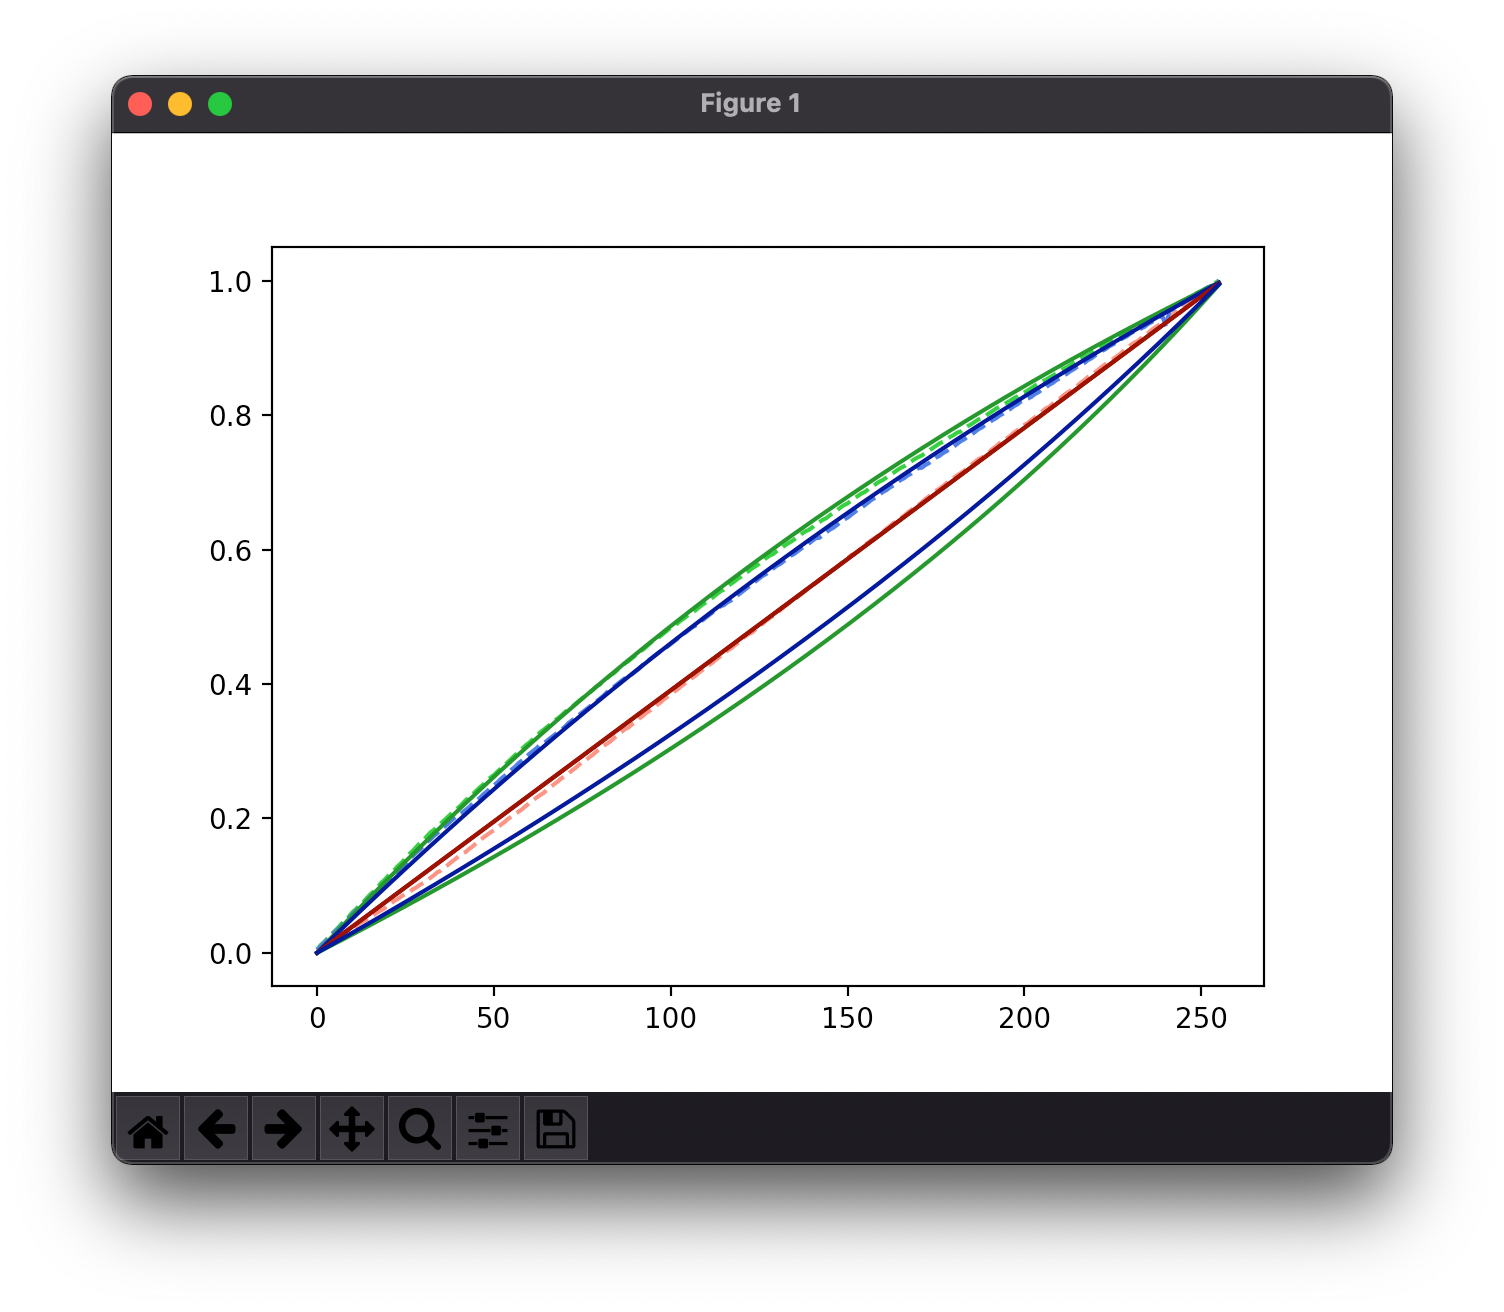
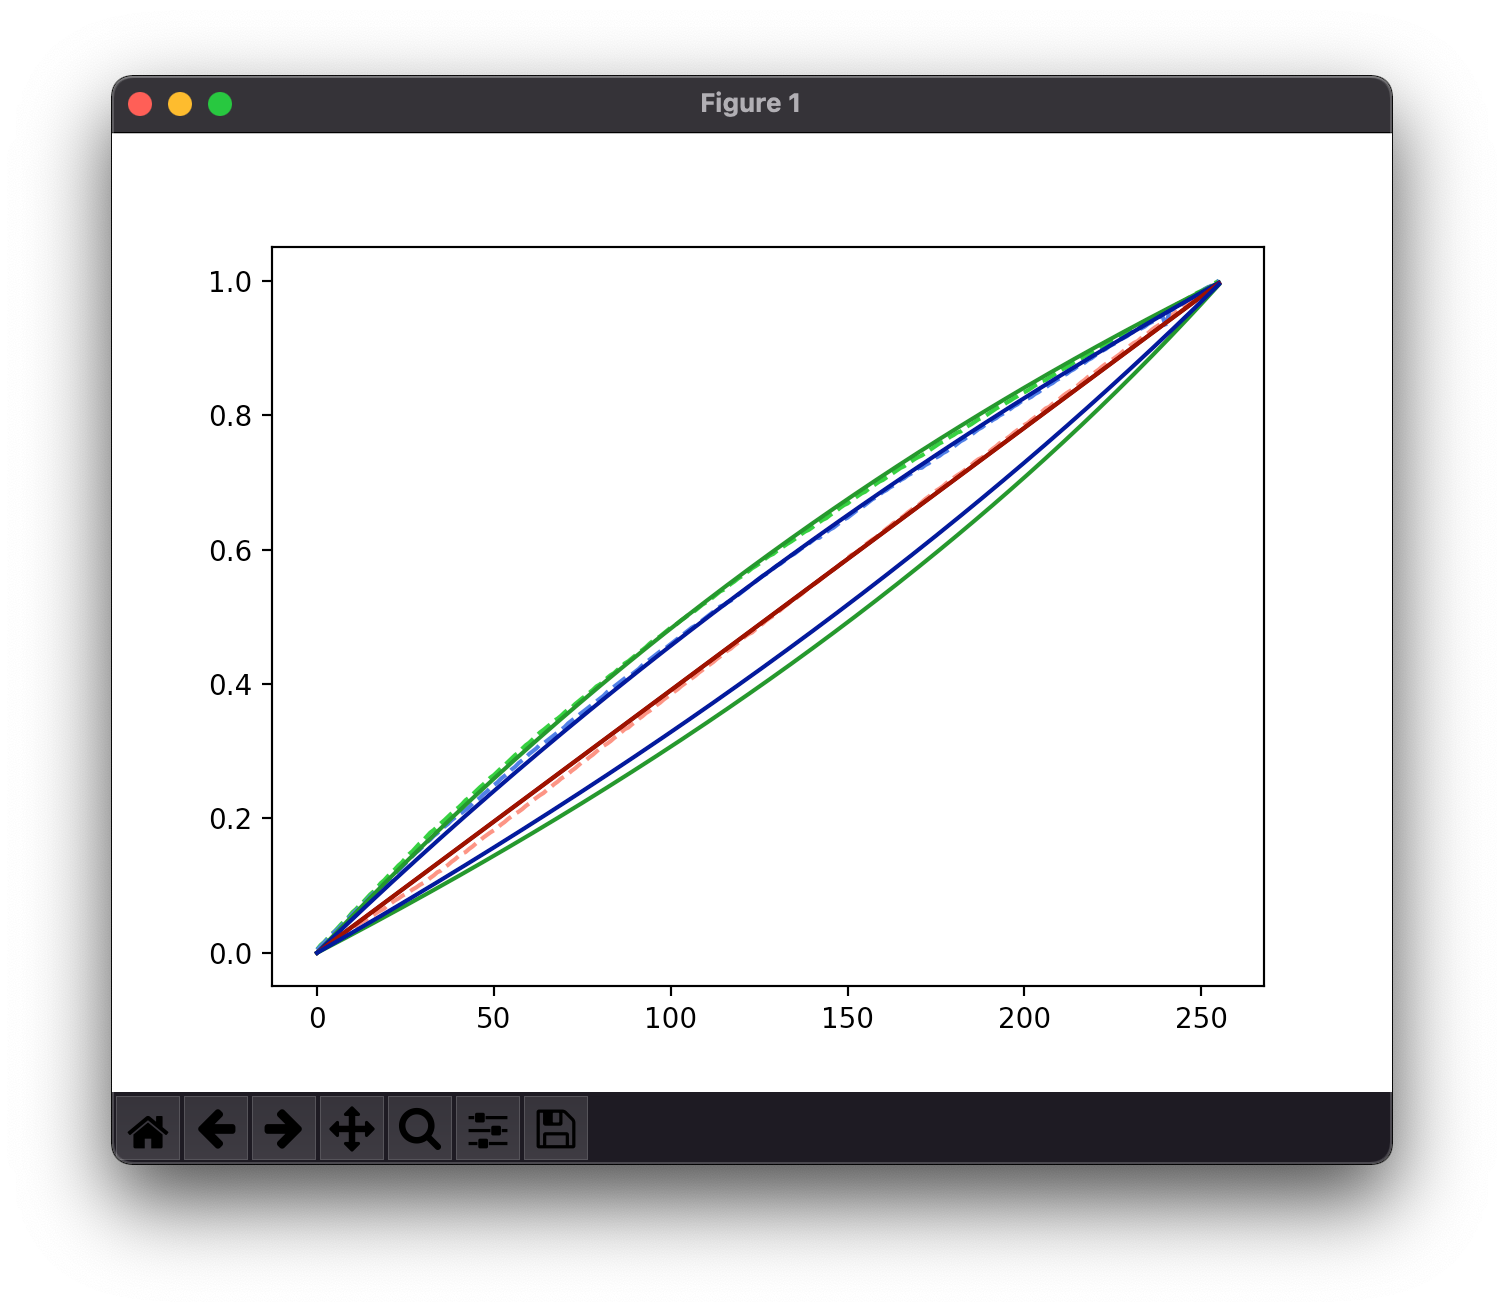
WIP

diff --git a/hd108calc.py b/hd108calc.py
@@ -7,6 +7,10 @@ import matplotlib.pyplot as plt
 import numpy as np
 import math
 
+# best match so far
+gconst = 0.760
+bconst = 0.550
+
 ra = []
 ga = []
 ba = []
@@ -19,23 +23,39 @@ ri = []
 gi = []
 bi = []
 
+'''
+-a * exp(-b * 1) + a = 1
+
+(1 - a) / - a = e ^ (-b)
+
+-log((1-a)/(-a)) = b
+
+a * (-exp(-b) + 1) = 1
+
+1 / (-exp(-b) + 1)
+'''
+
 def rfunc(x):
     return x
 
 def rifunc(x):
     return x
 
-def gfunc(x):
-    return -1.830981360906352 * np.exp(-0.790 * x) + 1.830981360906352
+def gfunc(x, b):
+    a = 1.0 / (-np.exp(-b) + 1.0)
+    return -a * np.exp(-b * x) + a
 
-def gifunc(x):
-    return np.log((x - 1.830981360906352) / -1.830981360906352) / -0.790
+def gifunc(x, b):
+    a = 1.0 / (-np.exp(-b) + 1.0)
+    return np.log((x - a) / -a) / -b
 
-def bfunc(x):
-    return -2.272202427870712 * np.exp(-0.580 * x) + 2.272202427870712
+def bfunc(x, b):
+    a = 1.0 / (-np.exp(-b) + 1.0)
+    return -a * np.exp(-b * x) + a
 
-def bifunc(x):
-    return np.log((x - 2.272202427870712) / -2.272202427870712) / -0.580
+def bifunc(x, b):
+    a = 1.0 / (-np.exp(-b) + 1.0)
+    return np.log((x - a) / -a) / -b
 
 def main():
 
@@ -61,19 +81,19 @@ def main():
         rq.append(rfunc(i))
 
     for i in np.arange(0, 1, 1/256):
-        gq.append(gfunc(i))
+        gq.append(gfunc(i, gconst))
 
     for i in np.arange(0, 1, 1/256):
-        bq.append(bfunc(i))
+        bq.append(bfunc(i, bconst))
 
     for i in np.arange(0, 1, 1/256):
         ri.append(rifunc(i))
 
     for i in np.arange(0, 1, 1/256):
-        gi.append(gifunc(i))
+        gi.append(gifunc(i, gconst))
 
     for i in np.arange(0, 1, 1/256):
-        bi.append(bifunc(i))
+        bi.append(bifunc(i, bconst))
 
     plt.plot(ra, color='salmon', linestyle='dashed')
     plt.plot(ga, color='limegreen', linestyle='dashed')
